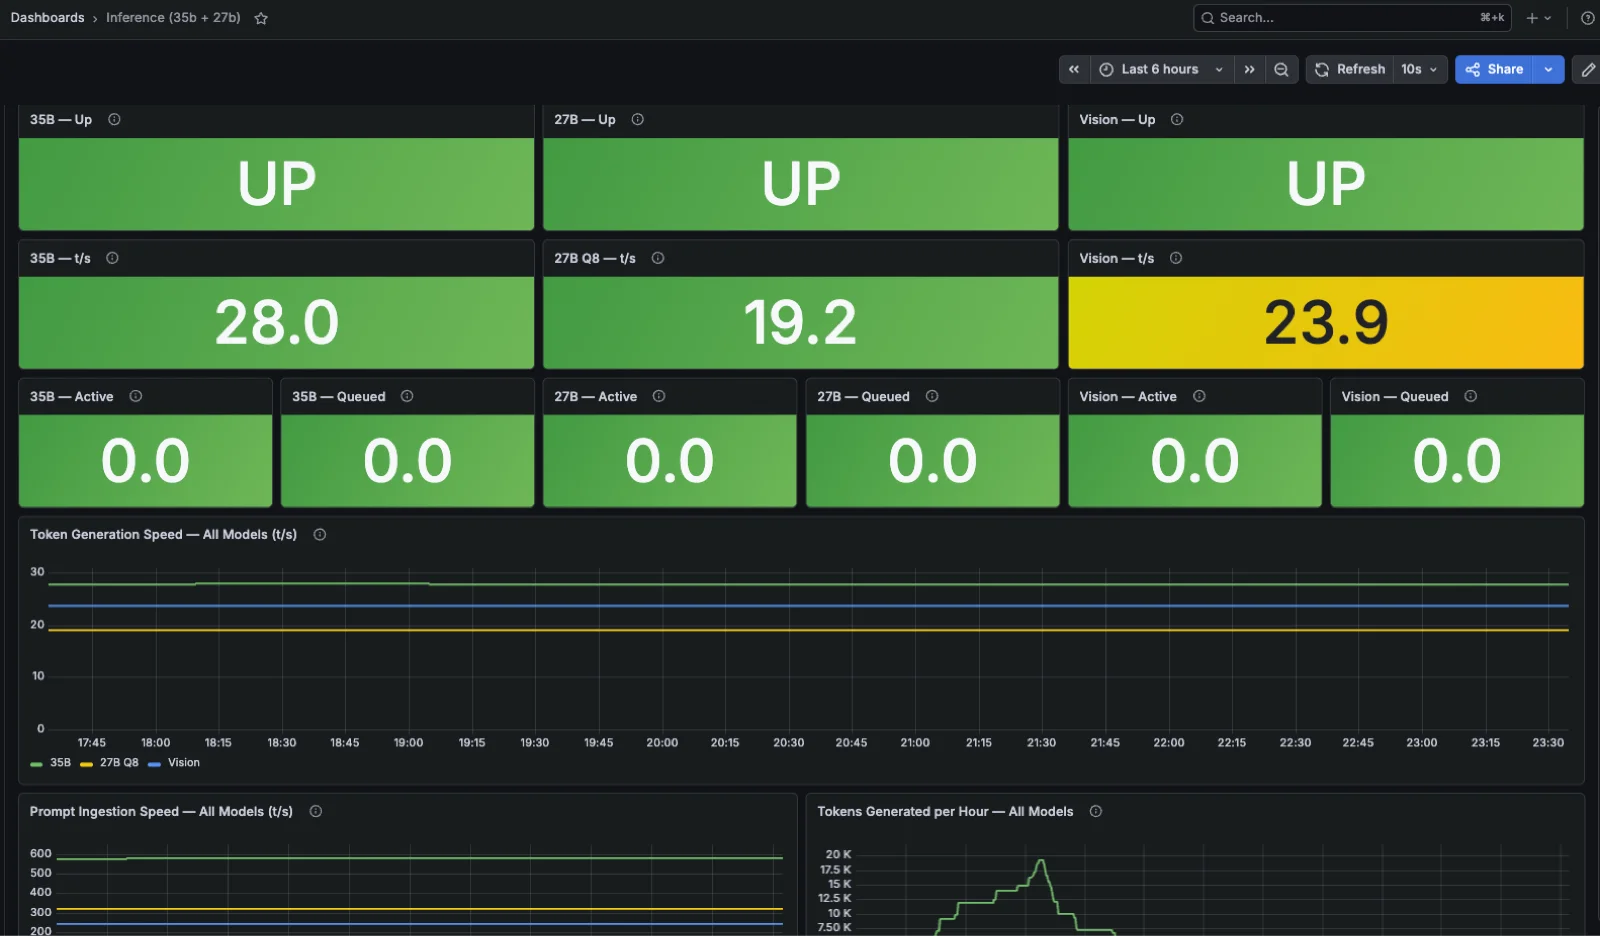
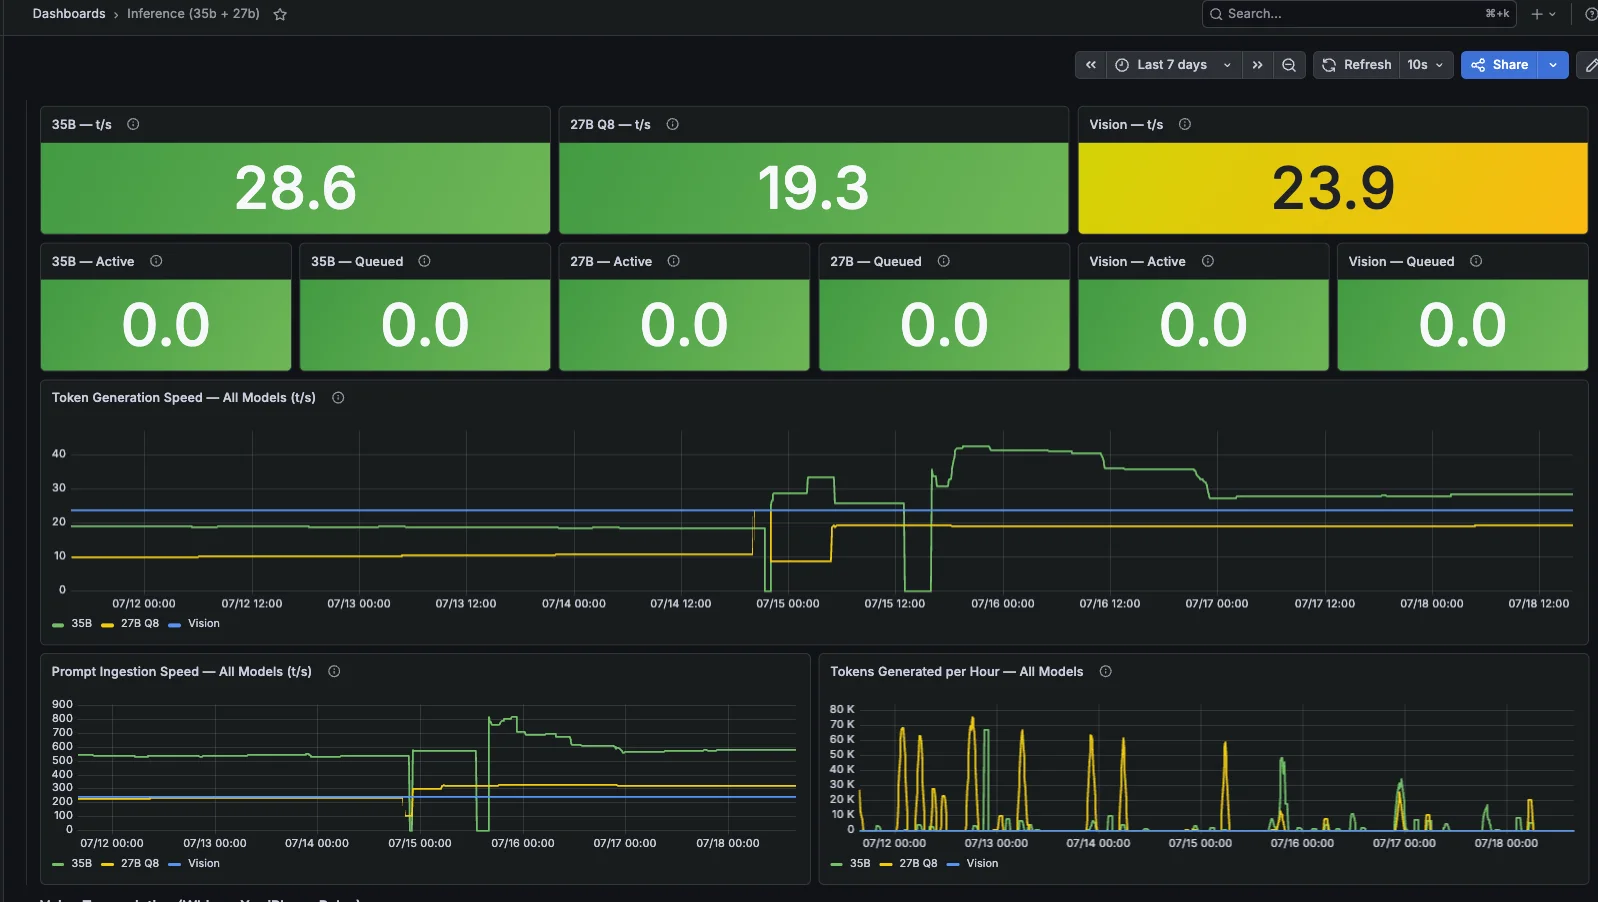
feat(content): replace Inference Engine screenshot with clearer 7-day view
The old grafana screenshot was a single-moment snapshot. Swapped in a
7-day Grafana view (current t/s for all three models + generation-
speed, prompt-ingestion, and hourly-throughput trend lines) and
updated the Figure alt/caption to describe what's actually shown.
Ran through the existing optimize-images pipeline: 368KB PNG -> 65KB
webp / 153KB jpg.

Also fixes a real bug in optimize-images.js found while doing this:
caseStudyImages now generates .jpg output into the same directory it
scans for input (added last commit for LinkedIn's og:image
compatibility), and the file-discovery regex matched jpe?g|png -
meaning every run after the first would pick up its own previously-
generated .jpg as a fresh source and re-derive webp/jpeg from an
already-lossy jpeg, silently degrading quality on repeat runs. Added
inputExtensions to restrict this tier to png sources only; verified
by re-running the script and confirming hermes-langfuse-traces and
pi-cloud-homepage (which have committed .jpg outputs but no .png
source) are no longer picked up.

diff --git a/scripts/optimize-images.js b/scripts/optimize-images.js
@@ -30,6 +30,10 @@ const config = {
     // render WebP og:image previews, so social meta tags use the jpeg while
     // the on-page <Figure> keeps using the smaller webp.
     formats: ["webp", "jpeg"],
+    // Source screenshots are always png; without this, a prior run's
+    // generated .jpg gets treated as a fresh input on the next run (see note
+    // on the input-matching regex below).
+    inputExtensions: ["png"],
   },
 };
 
@@ -105,10 +109,17 @@ async function optimizeDirectory(inputDir, outputDir, options) {
   const items = fs.readdirSync(inputDir);
   const results = [];
 
-  // Process files in current directory
+  // Process files in current directory. Tiers that output jpeg into the same
+  // directory they read from (caseStudyImages) must restrict input matching
+  // to png only - otherwise a previous run's generated .jpg gets picked up
+  // as a fresh source on the next run and re-derives webp/jpeg from an
+  // already-lossy jpeg instead of the original.
+  const inputPattern = options.inputExtensions
+    ? new RegExp(`\\.(${options.inputExtensions.join("|")})$`, "i")
+    : /\.(jpe?g|png)$/i;
   const files = items.filter(
     (file) =>
-      /\.(jpe?g|png)$/i.test(file) &&
+      inputPattern.test(file) &&
       !file.includes("optimized") &&
       fs.statSync(path.join(inputDir, file)).isFile()
   );

diff --git a/src/pages/case-studies/InferenceCaseStudy.tsx b/src/pages/case-studies/InferenceCaseStudy.tsx
@@ -143,8 +143,8 @@ const InferenceCaseStudy = () => (
       </p>
       <Figure
         src="/images/case-studies/inference-grafana.webp"
-        alt="Grafana dashboard showing all three models up, with live tokens-per-second stats and generation-speed trend lines"
-        caption="Live Grafana view: all three models resident and serving simultaneously. Steady-state generation here (28 t/s on the 35B) is the everyday number — the peak figures above are single-stream benchmark runs."
+        alt="Grafana dashboard showing 7 days of live inference metrics: current tokens/sec for all three models, plus generation-speed, prompt-ingestion, and hourly-throughput trend lines"
+        caption="Live Grafana view, 7-day window: all three models resident and serving simultaneously — steady-state generation here (~29 t/s on the 35B) is the everyday number, not the single-stream peak figures above."
       />
     </Section>
 

diff --git a/scripts/inline-critical-css.js b/scripts/inline-critical-css.js
@@ -23,7 +23,7 @@ const CASE_STUDIES = projects.filter((p) => p.link.startsWith('/projects/'));
 // link-preview crawler doesn't reliably render WebP og:image previews.
 const SOCIAL_IMAGES = {
   hermes: { file: 'hermes-langfuse-traces.jpg', width: 1600, height: 818 },
-  'inference-engine': { file: 'inference-grafana.jpg', width: 1600, height: 936 },
+  'inference-engine': { file: 'inference-grafana.jpg', width: 1598, height: 902 },
   'pi-cloud': { file: 'pi-cloud-homepage.jpg', width: 1600, height: 586 },
 };
 
